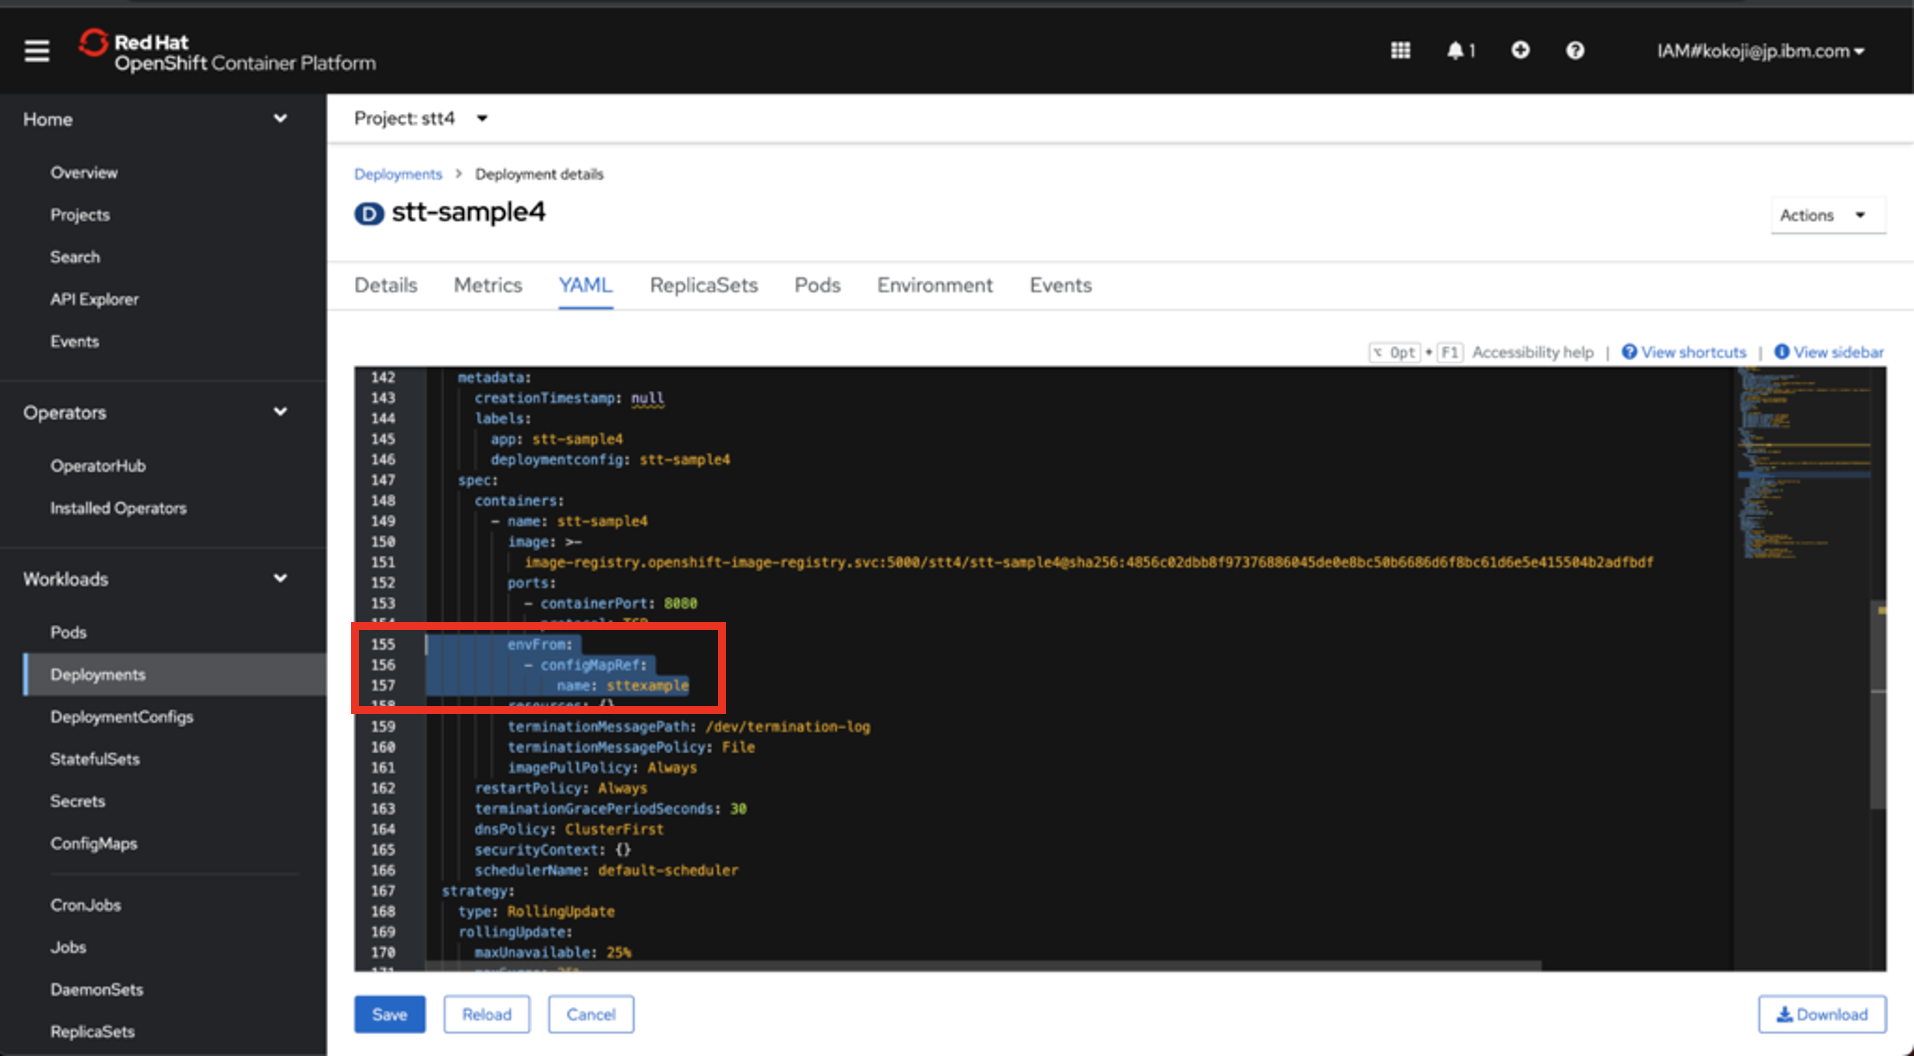
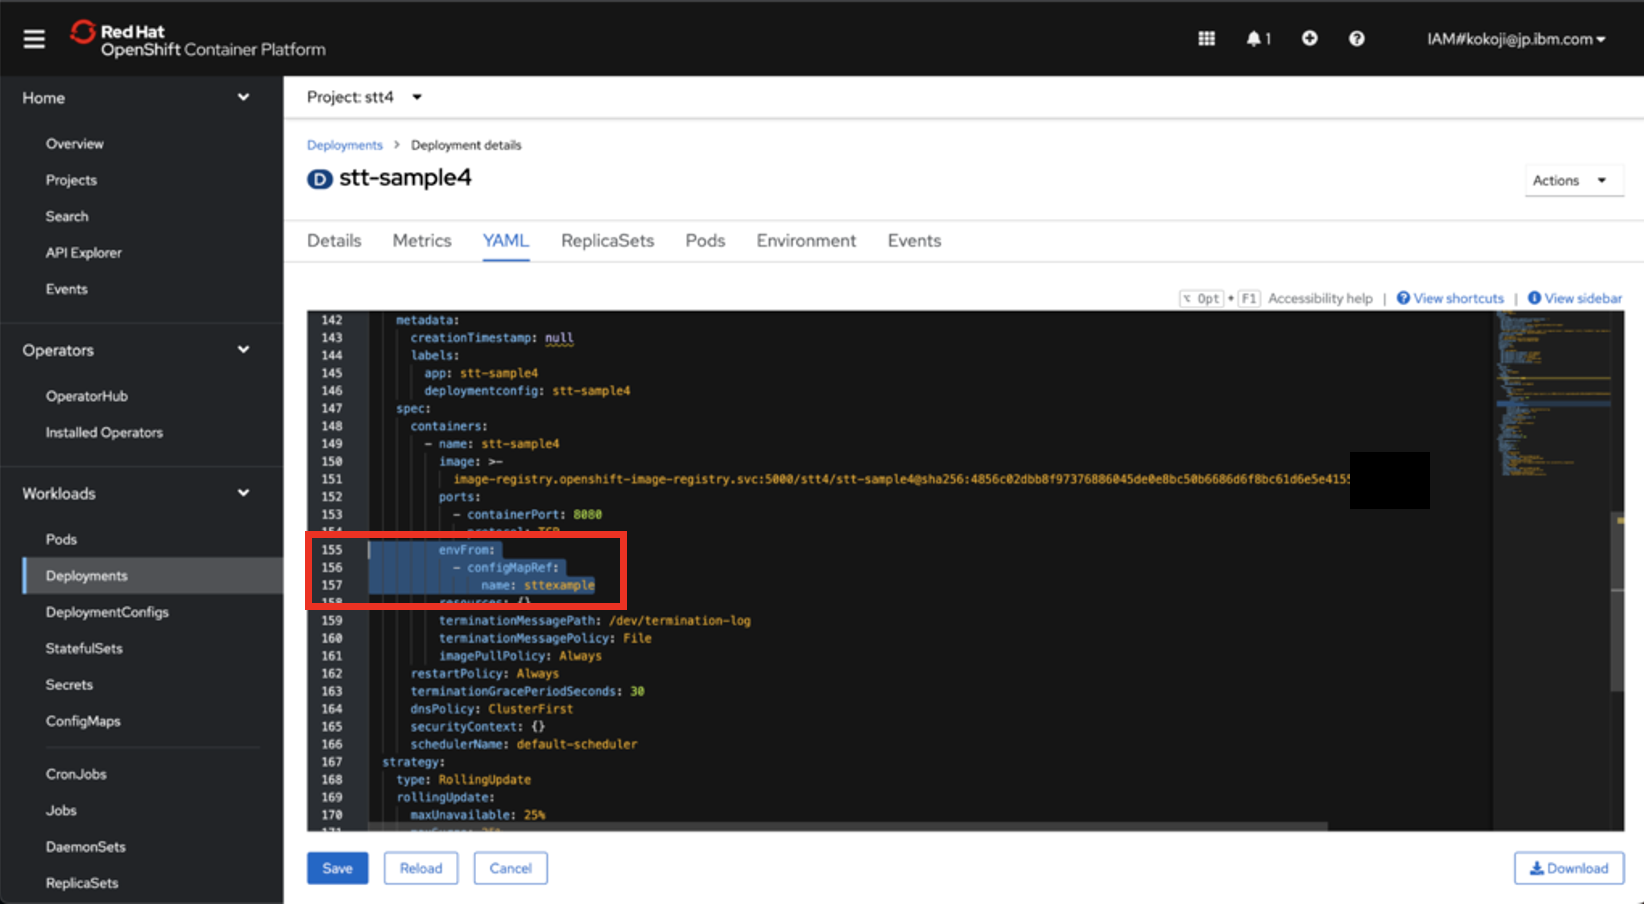
ガイド修正対応

diff --git a/README.md b/README.md
@@ -8,6 +8,8 @@
 
 ## ローカルでの実行手順
 
+前提：ローカルに、git、node.jsの環境があること。
+
 1. git clone https://github.com/kokoji/stt-sample-custom
 2. .env.exampleを.envにコピーし、以下の３つのパラメータを有効にする。
     1. SPEECH_TO_TEXT_AUTH_TYPE=iam
@@ -33,6 +35,8 @@
 6. localhost:3000 でアプリにアクセス可能
 
 ## ROKSでの実行手順
+
+前提　ローカルでの実行手順を実施済であること。
 
 1. Operator Hubを開いて、Developer Catalogをクリック
 
@@ -64,14 +68,26 @@
 
 ![ope1](doc/source/images2/roks06.png)
 
-7. Config Mapに.envのパラメータを設定。
+7. Config Mapでsttexampleを作成し、に.envのパラメータを設定。
+
+    ```yaml
+    data:
+      PORT: '8080'
+      SPEECH_TO_TEXT_APIKEY: Q7__M8hlCRV0HRjQSOwVPgq3LE-DsTqJUaxxxxxxxx
+      SPEECH_TO_TEXT_AUTH_TYPE: iam
+      SPEECH_TO_TEXT_URL: >-
+        https://api.jp-tok.speech-to-text.watson.cloud.ibm.com/instances/123ed3f0-e125-4835-a4ae-228xxxxxxx
+    ```
 
 ![ope1](doc/source/images2/roks07.png)
 
 8. 初めはエラーになっていたPodがOK、Runningになる。
 
+![ope1](doc/source/images2/roks08.png)
+
 9. Networking/Routesから、LocationのURLをクリックし、アプリを表示することができる。
 
+![ope1](doc/source/images2/roks09.png)
 
 
 以下はベースのアプリの原文のまま。
